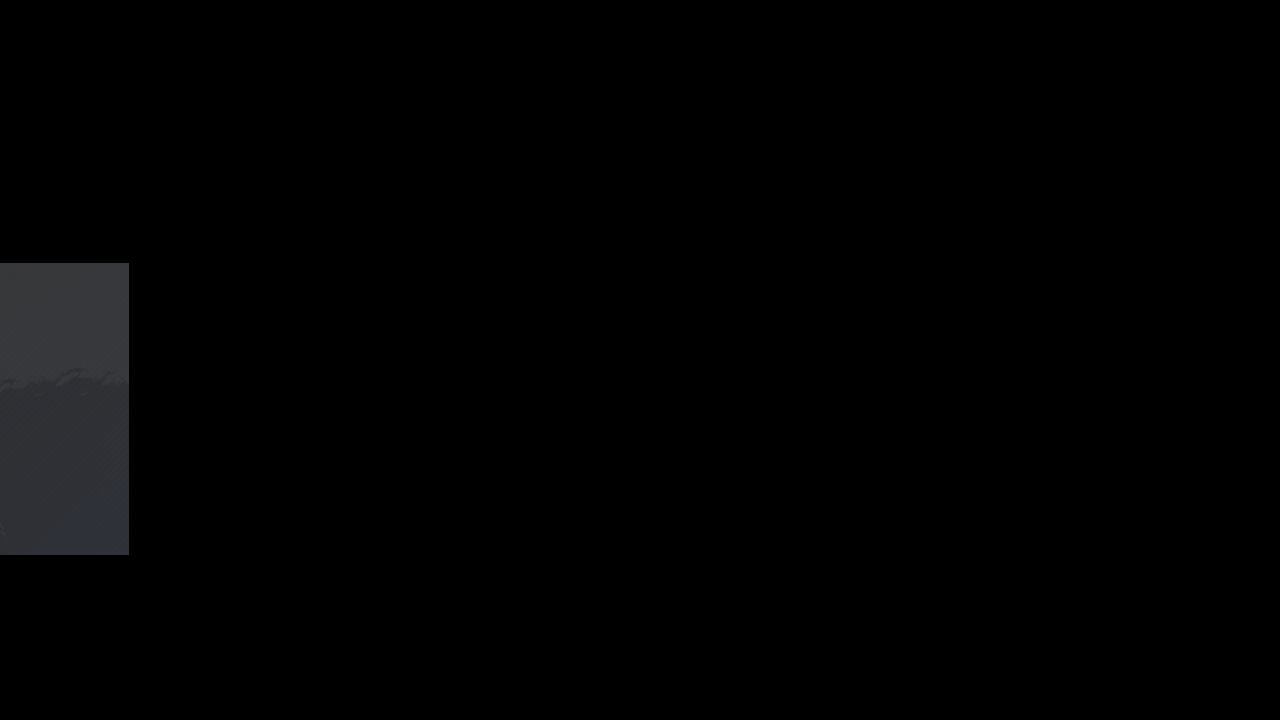
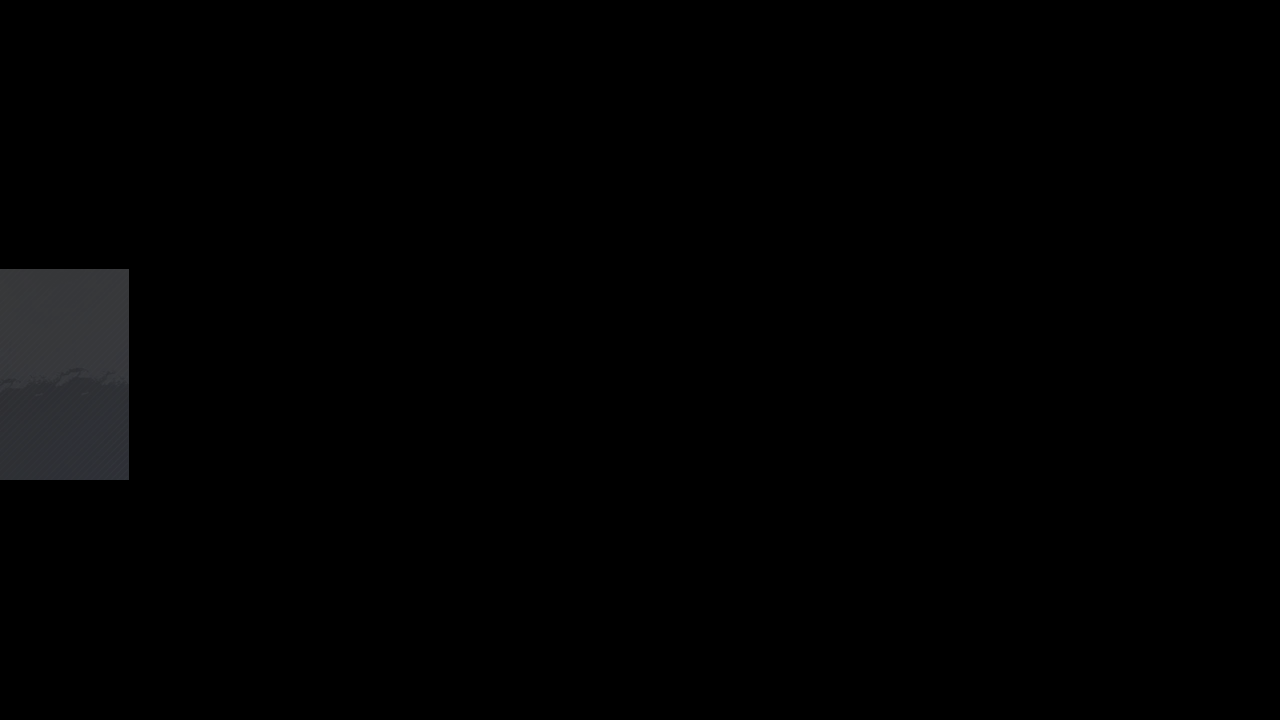
Fix: island assets

Changed region(s): [[0.0, 0.6417, 0.125, 0.7944], [0.0, 0.3667, 0.0938, 0.3972]]

diff --git a/module/island/assets.py b/module/island/assets.py
@@ -4,9 +4,9 @@ from module.base.template import Template
 # This file was automatically generated by dev_tools/button_extract.py.
 # Don't modify it manually.
 
-GET_ITEMS_ISLAND = Button(area={'cn': (588, 260, 692, 289), 'en': (588, 260, 692, 289), 'jp': (588, 260, 692, 289), 'tw': (588, 260, 692, 289)}, color={'cn': (178, 180, 180), 'en': (149, 151, 152), 'jp': (178, 180, 180), 'tw': (178, 180, 180)}, button={'cn': (0, 263, 129, 555), 'en': (588, 260, 692, 289), 'jp': (0, 263, 129, 555), 'tw': (0, 263, 129, 555)}, file={'cn': './assets/cn/island/GET_ITEMS_ISLAND.png', 'en': './assets/en/island/GET_ITEMS_ISLAND.png', 'jp': './assets/cn/island/GET_ITEMS_ISLAND.png', 'tw': './assets/cn/island/GET_ITEMS_ISLAND.png'})
+GET_ITEMS_ISLAND = Button(area={'cn': (588, 260, 692, 289), 'en': (588, 260, 692, 289), 'jp': (588, 260, 692, 289), 'tw': (588, 260, 692, 289)}, color={'cn': (178, 180, 180), 'en': (149, 151, 152), 'jp': (178, 180, 180), 'tw': (178, 180, 180)}, button={'cn': (0, 269, 129, 480), 'en': (588, 260, 692, 289), 'jp': (0, 269, 129, 480), 'tw': (0, 269, 129, 480)}, file={'cn': './assets/cn/island/GET_ITEMS_ISLAND.png', 'en': './assets/en/island/GET_ITEMS_ISLAND.png', 'jp': './assets/cn/island/GET_ITEMS_ISLAND.png', 'tw': './assets/cn/island/GET_ITEMS_ISLAND.png'})
 ISLAND_AMOUNT_MAX = Button(area={'cn': (960, 382, 988, 405), 'en': (960, 382, 988, 405), 'jp': (960, 382, 988, 405), 'tw': (960, 382, 988, 405)}, color={'cn': (72, 72, 78), 'en': (78, 78, 84), 'jp': (72, 72, 78), 'tw': (72, 72, 78)}, button={'cn': (960, 382, 988, 405), 'en': (960, 382, 988, 405), 'jp': (960, 382, 988, 405), 'tw': (960, 382, 988, 405)}, file={'cn': './assets/cn/island/ISLAND_AMOUNT_MAX.png', 'en': './assets/en/island/ISLAND_AMOUNT_MAX.png', 'jp': './assets/cn/island/ISLAND_AMOUNT_MAX.png', 'tw': './assets/cn/island/ISLAND_AMOUNT_MAX.png'})
-ISLAND_CLICK_SAFE_AREA = Button(area={'cn': (0, 263, 129, 555), 'en': (0, 263, 129, 555), 'jp': (0, 263, 129, 555), 'tw': (0, 263, 129, 555)}, color={'cn': (50, 52, 56), 'en': (50, 52, 56), 'jp': (50, 52, 56), 'tw': (50, 52, 56)}, button={'cn': (0, 263, 129, 555), 'en': (0, 263, 129, 555), 'jp': (0, 263, 129, 555), 'tw': (0, 263, 129, 555)}, file={'cn': './assets/cn/island/ISLAND_CLICK_SAFE_AREA.png', 'en': './assets/cn/island/ISLAND_CLICK_SAFE_AREA.png', 'jp': './assets/cn/island/ISLAND_CLICK_SAFE_AREA.png', 'tw': './assets/cn/island/ISLAND_CLICK_SAFE_AREA.png'})
+ISLAND_CLICK_SAFE_AREA = Button(area={'cn': (0, 269, 129, 480), 'en': (0, 269, 129, 480), 'jp': (0, 269, 129, 480), 'tw': (0, 269, 129, 480)}, color={'cn': (51, 52, 56), 'en': (51, 52, 56), 'jp': (51, 52, 56), 'tw': (51, 52, 56)}, button={'cn': (0, 269, 129, 480), 'en': (0, 269, 129, 480), 'jp': (0, 269, 129, 480), 'tw': (0, 269, 129, 480)}, file={'cn': './assets/cn/island/ISLAND_CLICK_SAFE_AREA.png', 'en': './assets/cn/island/ISLAND_CLICK_SAFE_AREA.png', 'jp': './assets/cn/island/ISLAND_CLICK_SAFE_AREA.png', 'tw': './assets/cn/island/ISLAND_CLICK_SAFE_AREA.png'})
 ISLAND_FRIEND = Button(area={'cn': (887, 648, 920, 675), 'en': (887, 648, 920, 675), 'jp': (887, 648, 920, 675), 'tw': (887, 648, 920, 675)}, color={'cn': (203, 213, 219), 'en': (203, 213, 219), 'jp': (203, 213, 219), 'tw': (203, 213, 219)}, button={'cn': (887, 648, 920, 675), 'en': (887, 648, 920, 675), 'jp': (887, 648, 920, 675), 'tw': (887, 648, 920, 675)}, file={'cn': './assets/cn/island/ISLAND_FRIEND.png', 'en': './assets/cn/island/ISLAND_FRIEND.png', 'jp': './assets/cn/island/ISLAND_FRIEND.png', 'tw': './assets/cn/island/ISLAND_FRIEND.png'})
 ISLAND_FRIEND_CHECK = Button(area={'cn': (171, 22, 217, 45), 'en': (171, 22, 217, 45), 'jp': (171, 22, 217, 45), 'tw': (171, 22, 217, 45)}, color={'cn': (96, 102, 115), 'en': (96, 102, 115), 'jp': (96, 102, 115), 'tw': (96, 102, 115)}, button={'cn': (171, 22, 217, 45), 'en': (171, 22, 217, 45), 'jp': (171, 22, 217, 45), 'tw': (171, 22, 217, 45)}, file={'cn': './assets/cn/island/ISLAND_FRIEND_CHECK.png', 'en': './assets/cn/island/ISLAND_FRIEND_CHECK.png', 'jp': './assets/cn/island/ISLAND_FRIEND_CHECK.png', 'tw': './assets/cn/island/ISLAND_FRIEND_CHECK.png'})
 ISLAND_FRIEND_LEAVE = Button(area={'cn': (380, 47, 406, 71), 'en': (380, 47, 406, 71), 'jp': (380, 47, 406, 71), 'tw': (380, 47, 406, 71)}, color={'cn': (183, 183, 183), 'en': (183, 183, 183), 'jp': (183, 183, 183), 'tw': (183, 183, 183)}, button={'cn': (380, 47, 406, 71), 'en': (380, 47, 406, 71), 'jp': (380, 47, 406, 71), 'tw': (380, 47, 406, 71)}, file={'cn': './assets/cn/island/ISLAND_FRIEND_LEAVE.png', 'en': './assets/cn/island/ISLAND_FRIEND_LEAVE.png', 'jp': './assets/cn/island/ISLAND_FRIEND_LEAVE.png', 'tw': './assets/cn/island/ISLAND_FRIEND_LEAVE.png'})
@@ -37,7 +37,7 @@ PROJECT_CHAO_HO_CHECK = Button(area={'cn': (1158, 174, 1218, 204), 'en': (1158, 
 PROJECT_CHEN_HAI_CHECK = Button(area={'cn': (1162, 175, 1215, 206), 'en': (1162, 175, 1215, 206), 'jp': (1162, 175, 1215, 206), 'tw': (1162, 175, 1215, 206)}, color={'cn': (145, 134, 130), 'en': (145, 134, 130), 'jp': (145, 134, 130), 'tw': (145, 134, 130)}, button={'cn': (1162, 175, 1215, 206), 'en': (1162, 175, 1215, 206), 'jp': (1162, 175, 1215, 206), 'tw': (1162, 175, 1215, 206)}, file={'cn': './assets/cn/island/PROJECT_CHEN_HAI_CHECK.png', 'en': './assets/cn/island/PROJECT_CHEN_HAI_CHECK.png', 'jp': './assets/cn/island/PROJECT_CHEN_HAI_CHECK.png', 'tw': './assets/cn/island/PROJECT_CHEN_HAI_CHECK.png'})
 PROJECT_CHESHIRE_CHECK = Button(area={'cn': (1161, 163, 1224, 207), 'en': (1161, 163, 1224, 207), 'jp': (1161, 163, 1224, 207), 'tw': (1161, 163, 1224, 207)}, color={'cn': (156, 150, 159), 'en': (156, 150, 159), 'jp': (156, 150, 159), 'tw': (156, 150, 159)}, button={'cn': (1161, 163, 1224, 207), 'en': (1161, 163, 1224, 207), 'jp': (1161, 163, 1224, 207), 'tw': (1161, 163, 1224, 207)}, file={'cn': './assets/cn/island/PROJECT_CHESHIRE_CHECK.png', 'en': './assets/cn/island/PROJECT_CHESHIRE_CHECK.png', 'jp': './assets/cn/island/PROJECT_CHESHIRE_CHECK.png', 'tw': './assets/cn/island/PROJECT_CHESHIRE_CHECK.png'})
 PROJECT_COMPLETE = Button(area={'cn': (616, 431, 670, 444), 'en': (616, 431, 670, 444), 'jp': (616, 431, 670, 444), 'tw': (616, 431, 670, 444)}, color={'cn': (158, 222, 255), 'en': (158, 222, 255), 'jp': (158, 222, 255), 'tw': (158, 222, 255)}, button={'cn': (580, 533, 762, 584), 'en': (580, 533, 762, 584), 'jp': (580, 533, 762, 584), 'tw': (580, 533, 762, 584)}, file={'cn': './assets/cn/island/PROJECT_COMPLETE.png', 'en': './assets/cn/island/PROJECT_COMPLETE.png', 'jp': './assets/cn/island/PROJECT_COMPLETE.png', 'tw': './assets/cn/island/PROJECT_COMPLETE.png'})
-PROJECT_EXPLORER_CHECK = Button(area={'cn': (1151, 168, 1223, 220), 'en': (1151, 168, 1223, 220), 'jp': (1151, 168, 1223, 220), 'tw': (1151, 168, 1223, 220)}, color={'cn': (200, 192, 189), 'en': (200, 192, 189), 'jp': (200, 192, 189), 'tw': (200, 192, 189)}, button={'cn': (1151, 168, 1223, 220), 'en': (1151, 168, 1223, 220), 'jp': (1151, 168, 1223, 220), 'tw': (1151, 168, 1223, 220)}, file={'cn': './assets/cn/island/PROJECT_EXPLORER_CHECK.png', 'en': './assets/cn/island/PROJECT_EXPLORER_CHECK.png', 'jp': './assets/cn/island/PROJECT_EXPLORER_CHECK.png', 'tw': './assets/cn/island/PROJECT_EXPLORER_CHECK.png'})
+PROJECT_EXPLORER_CHECK = Button(area={'cn': (1169, 172, 1213, 216), 'en': (1169, 172, 1213, 216), 'jp': (1169, 172, 1213, 216), 'tw': (1169, 172, 1213, 216)}, color={'cn': (207, 195, 192), 'en': (207, 195, 192), 'jp': (207, 195, 192), 'tw': (207, 195, 192)}, button={'cn': (1169, 172, 1213, 216), 'en': (1169, 172, 1213, 216), 'jp': (1169, 172, 1213, 216), 'tw': (1169, 172, 1213, 216)}, file={'cn': './assets/cn/island/PROJECT_EXPLORER_CHECK.png', 'en': './assets/cn/island/PROJECT_EXPLORER_CHECK.png', 'jp': './assets/cn/island/PROJECT_EXPLORER_CHECK.png', 'tw': './assets/cn/island/PROJECT_EXPLORER_CHECK.png'})
 PROJECT_FEI_YUEN_CHECK = Button(area={'cn': (1148, 171, 1223, 226), 'en': (1148, 171, 1223, 226), 'jp': (1148, 171, 1223, 226), 'tw': (1148, 171, 1223, 226)}, color={'cn': (215, 206, 205), 'en': (215, 206, 205), 'jp': (215, 206, 205), 'tw': (215, 206, 205)}, button={'cn': (1148, 171, 1223, 226), 'en': (1148, 171, 1223, 226), 'jp': (1148, 171, 1223, 226), 'tw': (1148, 171, 1223, 226)}, file={'cn': './assets/cn/island/PROJECT_FEI_YUEN_CHECK.png', 'en': './assets/cn/island/PROJECT_FEI_YUEN_CHECK.png', 'jp': './assets/cn/island/PROJECT_FEI_YUEN_CHECK.png', 'tw': './assets/cn/island/PROJECT_FEI_YUEN_CHECK.png'})
 PROJECT_FRIEDRICH_DER_GROBE_CHECK = Button(area={'cn': (1162, 177, 1217, 215), 'en': (1162, 177, 1217, 215), 'jp': (1162, 177, 1217, 215), 'tw': (1162, 177, 1217, 215)}, color={'cn': (106, 102, 100), 'en': (106, 102, 100), 'jp': (106, 102, 100), 'tw': (106, 102, 100)}, button={'cn': (1162, 177, 1217, 215), 'en': (1162, 177, 1217, 215), 'jp': (1162, 177, 1217, 215), 'tw': (1162, 177, 1217, 215)}, file={'cn': './assets/cn/island/PROJECT_FRIEDRICH_DER_GROBE_CHECK.png', 'en': './assets/cn/island/PROJECT_FRIEDRICH_DER_GROBE_CHECK.png', 'jp': './assets/cn/island/PROJECT_FRIEDRICH_DER_GROBE_CHECK.png', 'tw': './assets/cn/island/PROJECT_FRIEDRICH_DER_GROBE_CHECK.png'})
 PROJECT_HELENA_CHECK = Button(area={'cn': (1164, 175, 1217, 209), 'en': (1164, 175, 1217, 209), 'jp': (1164, 175, 1217, 209), 'tw': (1164, 175, 1217, 209)}, color={'cn': (184, 178, 195), 'en': (184, 178, 195), 'jp': (184, 178, 195), 'tw': (184, 178, 195)}, button={'cn': (1164, 175, 1217, 209), 'en': (1164, 175, 1217, 209), 'jp': (1164, 175, 1217, 209), 'tw': (1164, 175, 1217, 209)}, file={'cn': './assets/cn/island/PROJECT_HELENA_CHECK.png', 'en': './assets/cn/island/PROJECT_HELENA_CHECK.png', 'jp': './assets/cn/island/PROJECT_HELENA_CHECK.png', 'tw': './assets/cn/island/PROJECT_HELENA_CHECK.png'})
@@ -47,14 +47,14 @@ PROJECT_LAFFEY_CHECK = Button(area={'cn': (1149, 164, 1224, 214), 'en': (1149, 1
 PROJECT_LEMALIN_CHECK = Button(area={'cn': (1165, 173, 1232, 218), 'en': (1165, 173, 1232, 218), 'jp': (1165, 173, 1232, 218), 'tw': (1165, 173, 1232, 218)}, color={'cn': (225, 217, 221), 'en': (225, 217, 221), 'jp': (225, 217, 221), 'tw': (225, 217, 221)}, button={'cn': (1165, 173, 1232, 218), 'en': (1165, 173, 1232, 218), 'jp': (1165, 173, 1232, 218), 'tw': (1165, 173, 1232, 218)}, file={'cn': './assets/cn/island/PROJECT_LEMALIN_CHECK.png', 'en': './assets/cn/island/PROJECT_LEMALIN_CHECK.png', 'jp': './assets/cn/island/PROJECT_LEMALIN_CHECK.png', 'tw': './assets/cn/island/PROJECT_LEMALIN_CHECK.png'})
 PROJECT_MANJUU_CHECK = Button(area={'cn': (1162, 182, 1214, 205), 'en': (1162, 182, 1214, 205), 'jp': (1162, 182, 1214, 205), 'tw': (1162, 182, 1214, 205)}, color={'cn': (221, 192, 128), 'en': (221, 192, 128), 'jp': (221, 192, 128), 'tw': (221, 192, 128)}, button={'cn': (1162, 182, 1214, 205), 'en': (1162, 182, 1214, 205), 'jp': (1162, 182, 1214, 205), 'tw': (1162, 182, 1214, 205)}, file={'cn': './assets/cn/island/PROJECT_MANJUU_CHECK.png', 'en': './assets/cn/island/PROJECT_MANJUU_CHECK.png', 'jp': './assets/cn/island/PROJECT_MANJUU_CHECK.png', 'tw': './assets/cn/island/PROJECT_MANJUU_CHECK.png'})
 PROJECT_NEW_JERSEY_CHECK = Button(area={'cn': (1158, 170, 1223, 214), 'en': (1158, 170, 1223, 214), 'jp': (1158, 170, 1223, 214), 'tw': (1158, 170, 1223, 214)}, color={'cn': (138, 136, 159), 'en': (138, 136, 159), 'jp': (138, 136, 159), 'tw': (138, 136, 159)}, button={'cn': (1158, 170, 1223, 214), 'en': (1158, 170, 1223, 214), 'jp': (1158, 170, 1223, 214), 'tw': (1158, 170, 1223, 214)}, file={'cn': './assets/cn/island/PROJECT_NEW_JERSEY_CHECK.png', 'en': './assets/cn/island/PROJECT_NEW_JERSEY_CHECK.png', 'jp': './assets/cn/island/PROJECT_NEW_JERSEY_CHECK.png', 'tw': './assets/cn/island/PROJECT_NEW_JERSEY_CHECK.png'})
-PROJECT_OCEANA_CHECK = Button(area={'cn': (1148, 167, 1221, 221), 'en': (1148, 167, 1221, 221), 'jp': (1148, 167, 1221, 221), 'tw': (1148, 167, 1221, 221)}, color={'cn': (215, 208, 216), 'en': (215, 208, 216), 'jp': (215, 208, 216), 'tw': (215, 208, 216)}, button={'cn': (1148, 167, 1221, 221), 'en': (1148, 167, 1221, 221), 'jp': (1148, 167, 1221, 221), 'tw': (1148, 167, 1221, 221)}, file={'cn': './assets/cn/island/PROJECT_OCEANA_CHECK.png', 'en': './assets/cn/island/PROJECT_OCEANA_CHECK.png', 'jp': './assets/cn/island/PROJECT_OCEANA_CHECK.png', 'tw': './assets/cn/island/PROJECT_OCEANA_CHECK.png'})
+PROJECT_OCEANA_CHECK = Button(area={'cn': (1169, 174, 1207, 212), 'en': (1169, 174, 1207, 212), 'jp': (1169, 174, 1207, 212), 'tw': (1169, 174, 1207, 212)}, color={'cn': (222, 209, 213), 'en': (222, 209, 213), 'jp': (222, 209, 213), 'tw': (222, 209, 213)}, button={'cn': (1169, 174, 1207, 212), 'en': (1169, 174, 1207, 212), 'jp': (1169, 174, 1207, 212), 'tw': (1169, 174, 1207, 212)}, file={'cn': './assets/cn/island/PROJECT_OCEANA_CHECK.png', 'en': './assets/cn/island/PROJECT_OCEANA_CHECK.png', 'jp': './assets/cn/island/PROJECT_OCEANA_CHECK.png', 'tw': './assets/cn/island/PROJECT_OCEANA_CHECK.png'})
 PROJECT_PRINZ_EUGEN_CHECK = Button(area={'cn': (1150, 169, 1235, 219), 'en': (1150, 169, 1235, 219), 'jp': (1150, 169, 1235, 219), 'tw': (1150, 169, 1235, 219)}, color={'cn': (200, 180, 177), 'en': (200, 180, 177), 'jp': (200, 180, 177), 'tw': (200, 180, 177)}, button={'cn': (1150, 169, 1235, 219), 'en': (1150, 169, 1235, 219), 'jp': (1150, 169, 1235, 219), 'tw': (1150, 169, 1235, 219)}, file={'cn': './assets/cn/island/PROJECT_PRINZ_EUGEN_CHECK.png', 'en': './assets/cn/island/PROJECT_PRINZ_EUGEN_CHECK.png', 'jp': './assets/cn/island/PROJECT_PRINZ_EUGEN_CHECK.png', 'tw': './assets/cn/island/PROJECT_PRINZ_EUGEN_CHECK.png'})
 PROJECT_SARATOGA_CHECK = Button(area={'cn': (1162, 166, 1223, 219), 'en': (1162, 166, 1223, 219), 'jp': (1162, 166, 1223, 219), 'tw': (1162, 166, 1223, 219)}, color={'cn': (212, 177, 178), 'en': (212, 177, 178), 'jp': (212, 177, 178), 'tw': (212, 177, 178)}, button={'cn': (1162, 166, 1223, 219), 'en': (1162, 166, 1223, 219), 'jp': (1162, 166, 1223, 219), 'tw': (1162, 166, 1223, 219)}, file={'cn': './assets/cn/island/PROJECT_SARATOGA_CHECK.png', 'en': './assets/cn/island/PROJECT_SARATOGA_CHECK.png', 'jp': './assets/cn/island/PROJECT_SARATOGA_CHECK.png', 'tw': './assets/cn/island/PROJECT_SARATOGA_CHECK.png'})
 PROJECT_SHIMAKAZE_CHECK = Button(area={'cn': (1163, 168, 1212, 218), 'en': (1163, 168, 1212, 218), 'jp': (1163, 168, 1212, 218), 'tw': (1163, 168, 1212, 218)}, color={'cn': (218, 199, 196), 'en': (218, 199, 196), 'jp': (218, 199, 196), 'tw': (218, 199, 196)}, button={'cn': (1163, 168, 1212, 218), 'en': (1163, 168, 1212, 218), 'jp': (1163, 168, 1212, 218), 'tw': (1163, 168, 1212, 218)}, file={'cn': './assets/cn/island/PROJECT_SHIMAKAZE_CHECK.png', 'en': './assets/cn/island/PROJECT_SHIMAKAZE_CHECK.png', 'jp': './assets/cn/island/PROJECT_SHIMAKAZE_CHECK.png', 'tw': './assets/cn/island/PROJECT_SHIMAKAZE_CHECK.png'})
 PROJECT_START = Button(area={'cn': (686, 610, 706, 630), 'en': (609, 610, 629, 630), 'jp': (686, 610, 706, 630), 'tw': (686, 610, 706, 630)}, color={'cn': (129, 213, 255), 'en': (128, 212, 254), 'jp': (129, 213, 255), 'tw': (129, 213, 255)}, button={'cn': (494, 599, 1087, 642), 'en': (609, 610, 629, 630), 'jp': (494, 599, 1087, 642), 'tw': (494, 599, 1087, 642)}, file={'cn': './assets/cn/island/PROJECT_START.png', 'en': './assets/en/island/PROJECT_START.png', 'jp': './assets/cn/island/PROJECT_START.png', 'tw': './assets/cn/island/PROJECT_START.png'})
 PROJECT_TAKAO_CHECK = Button(area={'cn': (1143, 164, 1224, 224), 'en': (1143, 164, 1224, 224), 'jp': (1143, 164, 1224, 224), 'tw': (1143, 164, 1224, 224)}, color={'cn': (160, 151, 150), 'en': (160, 151, 150), 'jp': (160, 151, 150), 'tw': (160, 151, 150)}, button={'cn': (1143, 164, 1224, 224), 'en': (1143, 164, 1224, 224), 'jp': (1143, 164, 1224, 224), 'tw': (1143, 164, 1224, 224)}, file={'cn': './assets/cn/island/PROJECT_TAKAO_CHECK.png', 'en': './assets/cn/island/PROJECT_TAKAO_CHECK.png', 'jp': './assets/cn/island/PROJECT_TAKAO_CHECK.png', 'tw': './assets/cn/island/PROJECT_TAKAO_CHECK.png'})
 PROJECT_TASHKENT_CHECK = Button(area={'cn': (1164, 176, 1219, 213), 'en': (1164, 176, 1219, 213), 'jp': (1164, 176, 1219, 213), 'tw': (1164, 176, 1219, 213)}, color={'cn': (176, 146, 173), 'en': (176, 146, 173), 'jp': (176, 146, 173), 'tw': (176, 146, 173)}, button={'cn': (1164, 176, 1219, 213), 'en': (1164, 176, 1219, 213), 'jp': (1164, 176, 1219, 213), 'tw': (1164, 176, 1219, 213)}, file={'cn': './assets/cn/island/PROJECT_TASHKENT_CHECK.png', 'en': './assets/cn/island/PROJECT_TASHKENT_CHECK.png', 'jp': './assets/cn/island/PROJECT_TASHKENT_CHECK.png', 'tw': './assets/cn/island/PROJECT_TASHKENT_CHECK.png'})
-PROJECT_TB_CHECK = Button(area={'cn': (1148, 161, 1230, 218), 'en': (1148, 161, 1230, 218), 'jp': (1148, 161, 1230, 218), 'tw': (1148, 161, 1230, 218)}, color={'cn': (200, 207, 216), 'en': (200, 207, 216), 'jp': (200, 207, 216), 'tw': (200, 207, 216)}, button={'cn': (1148, 161, 1230, 218), 'en': (1148, 161, 1230, 218), 'jp': (1148, 161, 1230, 218), 'tw': (1148, 161, 1230, 218)}, file={'cn': './assets/cn/island/PROJECT_TB_CHECK.png', 'en': './assets/cn/island/PROJECT_TB_CHECK.png', 'jp': './assets/cn/island/PROJECT_TB_CHECK.png', 'tw': './assets/cn/island/PROJECT_TB_CHECK.png'})
+PROJECT_TB_CHECK = Button(area={'cn': (1169, 165, 1217, 207), 'en': (1169, 165, 1217, 207), 'jp': (1169, 165, 1217, 207), 'tw': (1169, 165, 1217, 207)}, color={'cn': (206, 210, 221), 'en': (206, 210, 221), 'jp': (206, 210, 221), 'tw': (206, 210, 221)}, button={'cn': (1169, 165, 1217, 207), 'en': (1169, 165, 1217, 207), 'jp': (1169, 165, 1217, 207), 'tw': (1169, 165, 1217, 207)}, file={'cn': './assets/cn/island/PROJECT_TB_CHECK.png', 'en': './assets/cn/island/PROJECT_TB_CHECK.png', 'jp': './assets/cn/island/PROJECT_TB_CHECK.png', 'tw': './assets/cn/island/PROJECT_TB_CHECK.png'})
 PROJECT_UNICORN_CHECK = Button(area={'cn': (1156, 167, 1224, 209), 'en': (1156, 167, 1224, 209), 'jp': (1156, 167, 1224, 209), 'tw': (1156, 167, 1224, 209)}, color={'cn': (199, 184, 218), 'en': (199, 184, 218), 'jp': (199, 184, 218), 'tw': (199, 184, 218)}, button={'cn': (1156, 167, 1224, 209), 'en': (1156, 167, 1224, 209), 'jp': (1156, 167, 1224, 209), 'tw': (1156, 167, 1224, 209)}, file={'cn': './assets/cn/island/PROJECT_UNICORN_CHECK.png', 'en': './assets/cn/island/PROJECT_UNICORN_CHECK.png', 'jp': './assets/cn/island/PROJECT_UNICORN_CHECK.png', 'tw': './assets/cn/island/PROJECT_UNICORN_CHECK.png'})
 PROJECT_WILLIAM_D_PORTER_CHECK = Button(area={'cn': (1152, 176, 1218, 220), 'en': (1152, 176, 1218, 220), 'jp': (1152, 176, 1218, 220), 'tw': (1152, 176, 1218, 220)}, color={'cn': (210, 179, 166), 'en': (210, 179, 166), 'jp': (210, 179, 166), 'tw': (210, 179, 166)}, button={'cn': (1152, 176, 1218, 220), 'en': (1152, 176, 1218, 220), 'jp': (1152, 176, 1218, 220), 'tw': (1152, 176, 1218, 220)}, file={'cn': './assets/cn/island/PROJECT_WILLIAM_D_PORTER_CHECK.png', 'en': './assets/cn/island/PROJECT_WILLIAM_D_PORTER_CHECK.png', 'jp': './assets/cn/island/PROJECT_WILLIAM_D_PORTER_CHECK.png', 'tw': './assets/cn/island/PROJECT_WILLIAM_D_PORTER_CHECK.png'})
 PROJECT_YAT_SEN_CHECK = Button(area={'cn': (1149, 164, 1224, 214), 'en': (1149, 164, 1224, 214), 'jp': (1149, 164, 1224, 214), 'tw': (1149, 164, 1224, 214)}, color={'cn': (146, 133, 135), 'en': (146, 133, 135), 'jp': (146, 133, 135), 'tw': (146, 133, 135)}, button={'cn': (1149, 164, 1224, 214), 'en': (1149, 164, 1224, 214), 'jp': (1149, 164, 1224, 214), 'tw': (1149, 164, 1224, 214)}, file={'cn': './assets/cn/island/PROJECT_YAT_SEN_CHECK.png', 'en': './assets/cn/island/PROJECT_YAT_SEN_CHECK.png', 'jp': './assets/cn/island/PROJECT_YAT_SEN_CHECK.png', 'tw': './assets/cn/island/PROJECT_YAT_SEN_CHECK.png'})

diff --git a/module/handler/assets.py b/module/handler/assets.py
@@ -104,5 +104,5 @@ SUBMARINE_VIEW_ON = Button(area={'cn': (1140, 435, 1170, 468), 'en': (1140, 435,
 TEMPLATE_MANJUU = Template(file={'cn': './assets/cn/handler/TEMPLATE_MANJUU.png', 'en': './assets/cn/handler/TEMPLATE_MANJUU.png', 'jp': './assets/cn/handler/TEMPLATE_MANJUU.png', 'tw': './assets/cn/handler/TEMPLATE_MANJUU.png'})
 USER_AGREEMENT_CONFIRM = Button(area={'cn': (709, 526, 742, 542), 'en': (709, 526, 742, 542), 'jp': (709, 526, 742, 542), 'tw': (709, 526, 742, 542)}, color={'cn': (151, 216, 243), 'en': (151, 216, 243), 'jp': (151, 216, 243), 'tw': (151, 216, 243)}, button={'cn': (709, 526, 742, 542), 'en': (709, 526, 742, 542), 'jp': (709, 526, 742, 542), 'tw': (709, 526, 742, 542)}, file={'cn': './assets/cn/handler/USER_AGREEMENT_CONFIRM.png', 'en': './assets/en/handler/USER_AGREEMENT_CONFIRM.png', 'jp': './assets/jp/handler/USER_AGREEMENT_CONFIRM.png', 'tw': './assets/tw/handler/USER_AGREEMENT_CONFIRM.png'})
 USE_DATA_KEY = Button(area={'cn': (688, 316, 781, 338), 'en': (759, 323, 889, 342), 'jp': (627, 300, 743, 321), 'tw': (688, 316, 782, 338)}, color={'cn': (165, 154, 99), 'en': (170, 160, 94), 'jp': (127, 128, 116), 'tw': (159, 150, 97)}, button={'cn': (688, 316, 781, 338), 'en': (759, 323, 889, 342), 'jp': (627, 300, 743, 321), 'tw': (688, 316, 782, 338)}, file={'cn': './assets/cn/handler/USE_DATA_KEY.png', 'en': './assets/en/handler/USE_DATA_KEY.png', 'jp': './assets/jp/handler/USE_DATA_KEY.png', 'tw': './assets/tw/handler/USE_DATA_KEY.png'})
-USE_DATA_KEY_NOTIFIED = Button(area={'cn': (690, 185, 713, 207), 'en': (820, 440, 837, 456), 'jp': (686, 430, 709, 456), 'tw': (782, 440, 799, 456)}, color={'cn': (34, 49, 75), 'en': (33, 40, 41), 'jp': (33, 44, 49), 'tw': (34, 40, 48)}, button={'cn': (690, 185, 713, 207), 'en': (820, 440, 837, 456), 'jp': (686, 430, 709, 456), 'tw': (782, 440, 799, 456)}, file={'cn': './assets/cn/handler/USE_DATA_KEY_NOTIFIED.png', 'en': './assets/en/handler/USE_DATA_KEY_NOTIFIED.png', 'jp': './assets/jp/handler/USE_DATA_KEY_NOTIFIED.png', 'tw': './assets/tw/handler/USE_DATA_KEY_NOTIFIED.png'})
+USE_DATA_KEY_NOTIFIED = Button(area={'cn': (690, 185, 713, 207), 'en': (740, 191, 757, 207), 'jp': (604, 183, 631, 209), 'tw': (782, 440, 799, 456)}, color={'cn': (34, 49, 75), 'en': (33, 48, 74), 'jp': (28, 43, 65), 'tw': (34, 40, 48)}, button={'cn': (690, 185, 713, 207), 'en': (740, 191, 757, 207), 'jp': (604, 183, 631, 209), 'tw': (782, 440, 799, 456)}, file={'cn': './assets/cn/handler/USE_DATA_KEY_NOTIFIED.png', 'en': './assets/en/handler/USE_DATA_KEY_NOTIFIED.png', 'jp': './assets/jp/handler/USE_DATA_KEY_NOTIFIED.png', 'tw': './assets/tw/handler/USE_DATA_KEY_NOTIFIED.png'})
 VOTE_CANCEL = Button(area={'cn': (404, 483, 576, 539), 'en': (413, 489, 566, 532), 'jp': (407, 483, 577, 538), 'tw': (404, 483, 576, 539)}, color={'cn': (167, 169, 171), 'en': (169, 170, 172), 'jp': (163, 164, 166), 'tw': (167, 169, 171)}, button={'cn': (404, 483, 576, 539), 'en': (413, 489, 566, 532), 'jp': (407, 483, 577, 538), 'tw': (404, 483, 576, 539)}, file={'cn': './assets/cn/handler/VOTE_CANCEL.png', 'en': './assets/en/handler/VOTE_CANCEL.png', 'jp': './assets/jp/handler/VOTE_CANCEL.png', 'tw': './assets/cn/handler/VOTE_CANCEL.png'})
